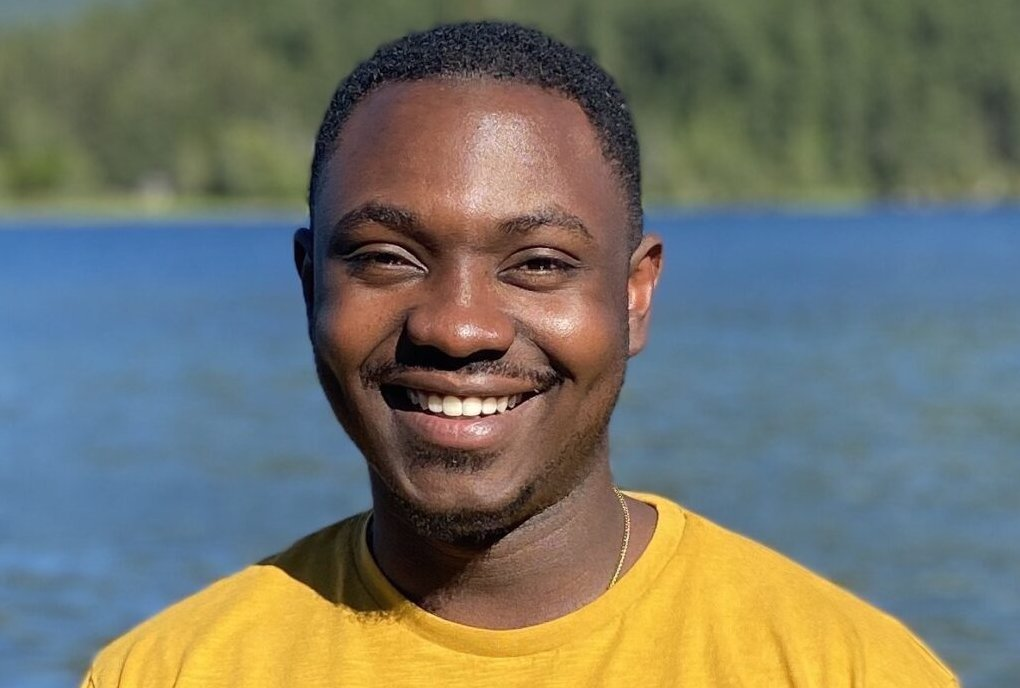
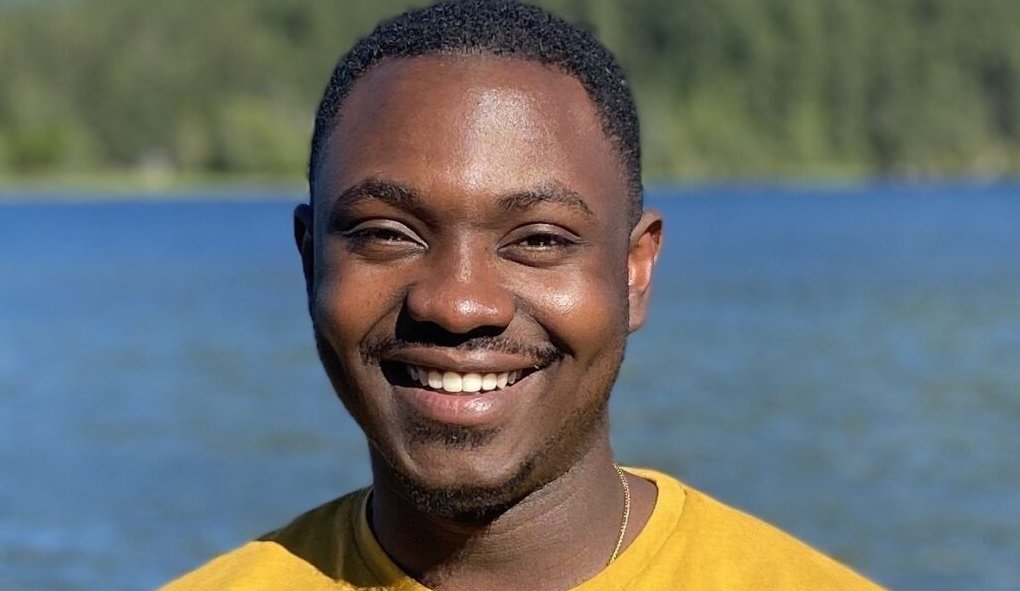
Adding more organizers pictures

diff --git a/index.html b/index.html
@@ -595,6 +595,53 @@
                                 </div>
                             </div>
                         </div>
+
+                        <div
+                            class="col-lg-4 col-md-6 d-flex align-items-stretch"
+                        >
+                            <div class="member">
+                                <img
+                                    src="assets/img/trainers/trainer-10.jpg"
+                                    class="img-fluid"
+                                    alt=""
+                                />
+                                <div class="member-content">
+                                    <h4>Prof. Leonid Sigal</h4>
+                                    <span
+                                        >Professor in the Department of Computer
+                                        Science @University of British Columbia
+                                        (Confirmed)</span
+                                    >
+                                    <p>
+                                        An NSERC Canada Research Chair (CRC II)
+                                        in Computer Vision and Machine Learning
+                                        and a CIFAR AI Chair at the Vector
+                                        Institute for AI in Toronto. In
+                                        addition, he serve as an Academic
+                                        Advisor to Borealis AI. Prior to this,
+                                        he was a Senior Research Scientist at
+                                        Disney Research Pittsburgh and an
+                                        Adjunct Faculty member at Carnegie
+                                        Mellon University. Research focuses on
+                                        problems of visual understanding and
+                                        reasoning object recognition, scene
+                                        understanding, articulated motion
+                                        capture, motion modeling, action
+                                        recognition, motion perception, manifold
+                                        learning, transfer learning etc.
+                                    </p>
+                                    <div class="social">
+                                        <a href="https://www.linkedin.com/in/leonid-sigal-23723037/"
+                                            ><i class="bi bi-linkedin"></i
+                                        ></a>
+                                        <!-- <a
+                                            href="https://twitter.com/nailamurray"
+                                            ><i class="bi bi-twitter"></i
+                                        ></a> -->
+                                    </div>
+                                </div>
+                            </div>
+                        </div>
                     </div>
                 </div>
             </section>
@@ -722,7 +769,7 @@
                         >
                             <div class="member">
                                 <img
-                                    src="assets/img/trainers/organizer-2.jpg"
+                                    src="assets/img/trainers/organizer-3.jpg"
                                     class="img-fluid"
                                     alt=""
                                 />
@@ -745,13 +792,13 @@
                                     </p>
                                     <div class="social">
                                         <a
-                                            href="https://www.linkedin.com/in/grace-adegboro-80b925b6/"
+                                            href="https://www.linkedin.com/in/salomey-osei-4b08a5b8/"
                                             ><i class="bi bi-linkedin"></i
                                         ></a>
-                                        <!-- <a
-                                            href="https://twitter.com/mennatullahSiam"
+                                        <a
+                                            href="https://twitter.com/nanayaasally"
                                             ><i class="bi bi-twitter"></i
-                                        ></a> -->
+                                        ></a>
                                     </div>
                                 </div>
                             </div>
@@ -762,7 +809,7 @@
                         >
                             <div class="member">
                                 <img
-                                    src="assets/img/trainers/organizer-2.jpg"
+                                    src="assets/img/trainers/organizer-4.png"
                                     class="img-fluid"
                                     alt=""
                                 />
@@ -780,13 +827,13 @@
                                     </p>
                                     <div class="social">
                                         <a
-                                            href="https://www.linkedin.com/in/grace-adegboro-80b925b6/"
+                                            href="https://www.linkedin.com/in/issam-laradji-67ba1a99/"
                                             ><i class="bi bi-linkedin"></i
                                         ></a>
-                                        <!-- <a
-                                            href="https://twitter.com/mennatullahSiam"
+                                        <a
+                                            href="https://twitter.com/ILaradji"
                                             ><i class="bi bi-twitter"></i
-                                        ></a> -->
+                                        ></a>
                                     </div>
                                 </div>
                             </div>
@@ -820,13 +867,13 @@
                                     </p>
                                     <div class="social">
                                         <a
-                                            href="https://www.linkedin.com/in/grace-adegboro-80b925b6/"
+                                            href="https://www.linkedin.com/in/esther-oduntan/"
                                             ><i class="bi bi-linkedin"></i
                                         ></a>
-                                        <!-- <a
-                                            href="https://twitter.com/mennatullahSiam"
+                                        <a
+                                            href="https://twitter.com/esther_ooduntan"
                                             ><i class="bi bi-twitter"></i
-                                        ></a> -->
+                                        ></a>
                                     </div>
                                 </div>
                             </div>
